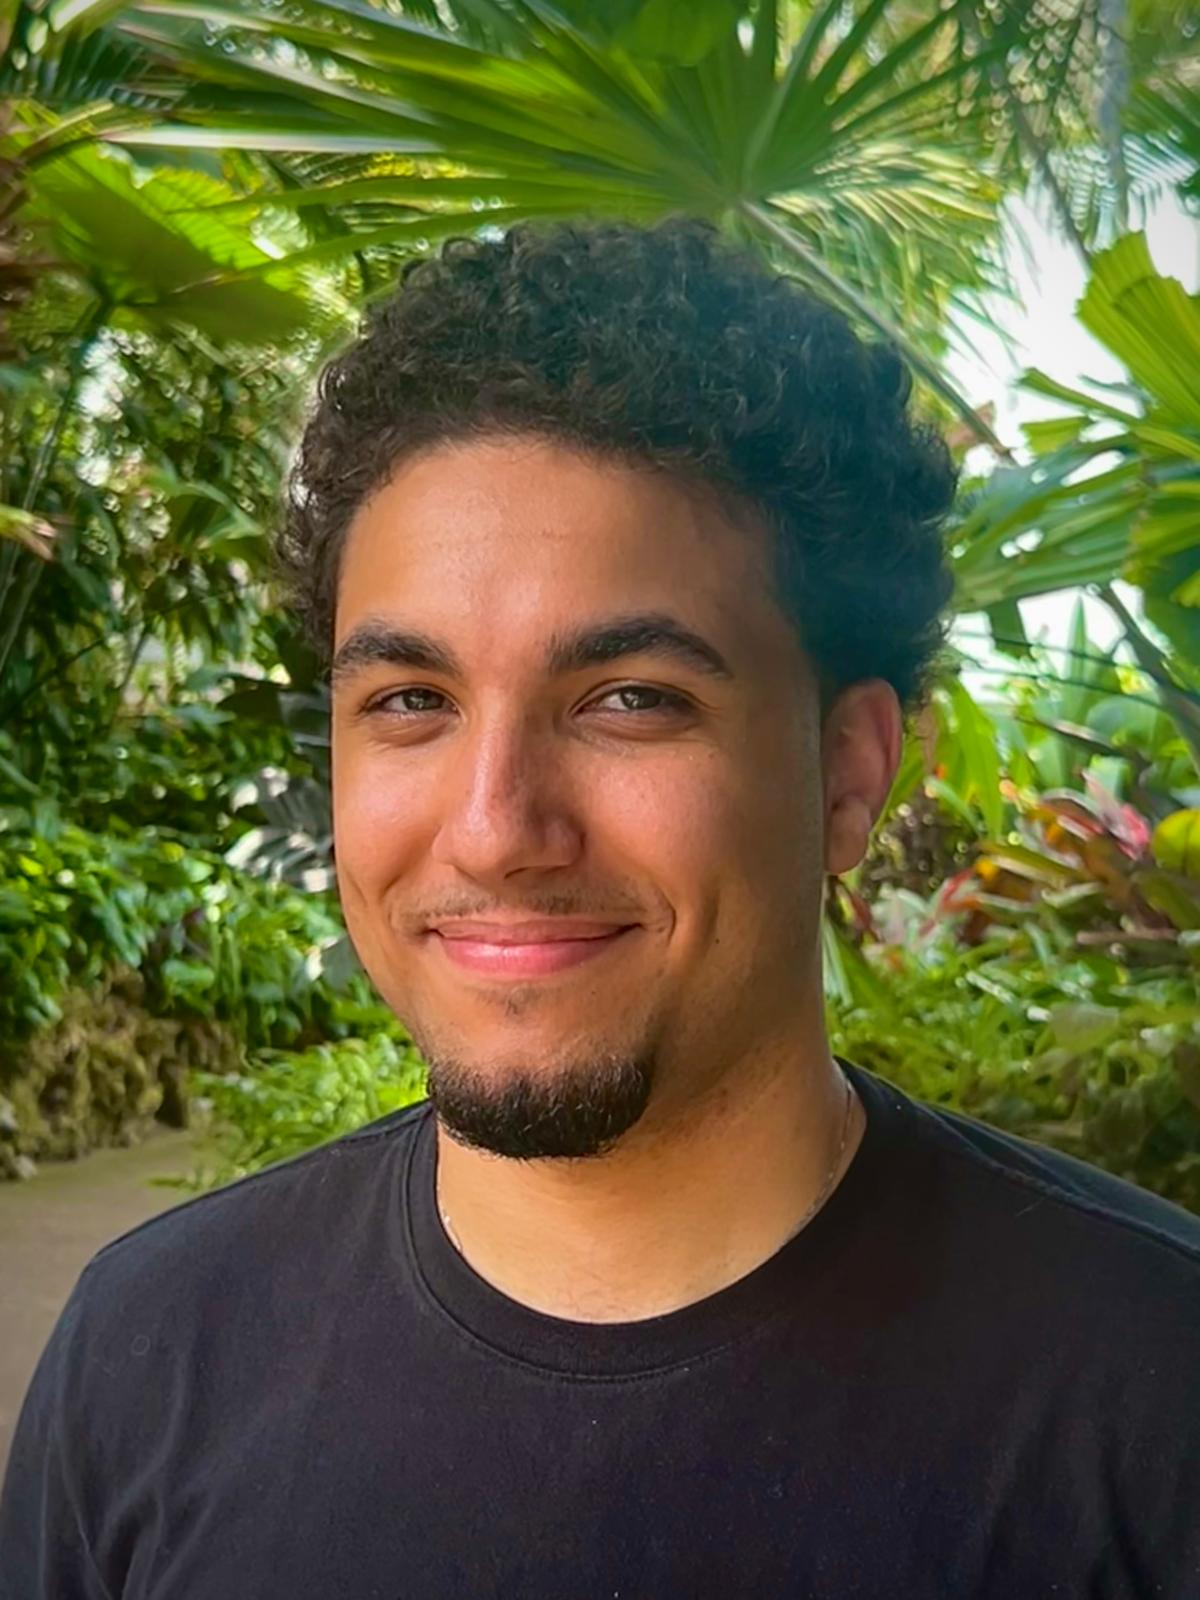
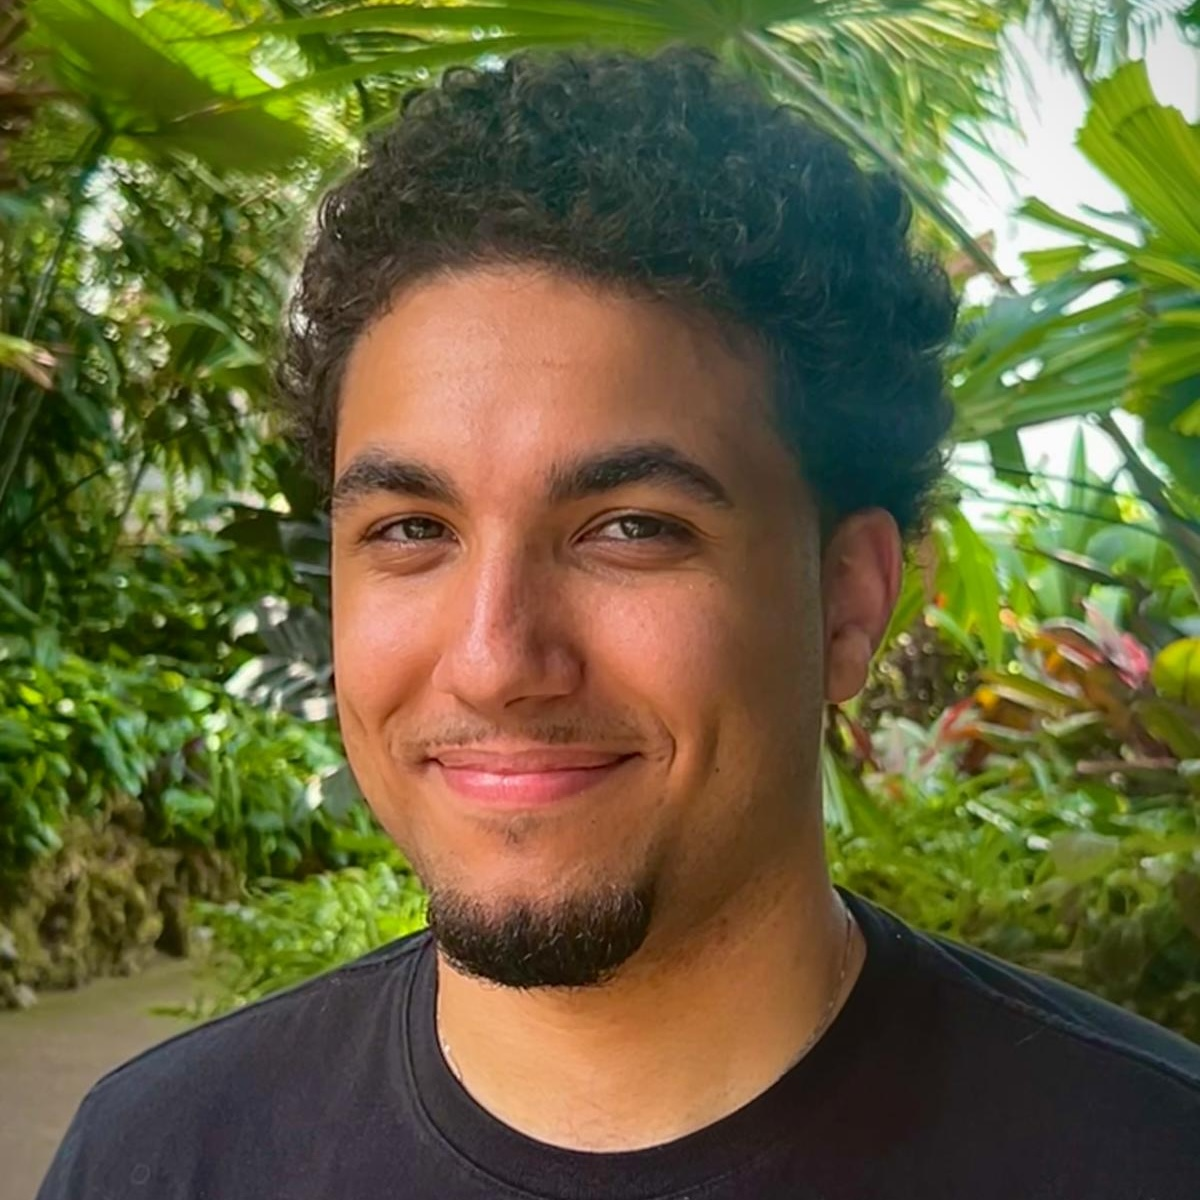
correct format in photos

diff --git a/member/nathaniel.html b/member/nathaniel.html
@@ -25,7 +25,7 @@
 						<div class="row">
 							<div class="col-4 col-12-medium">
 								<div class="team-card">
-									<div class="team-img-wrapper"></div>
+									<div class="team-img-wrapper">
 										<img class="team-img" src="../images/member/headshot_NathanielFlores.jpeg">
 									</div>
 									<div class="team-card-content">
@@ -39,7 +39,7 @@
 									</div>
 								</div>
 							</div>
-							<div class="col-8 col-12-medium"></div>
+							<div class="col-8 col-12-medium">
 								<p>Nathaniel Flores is a third-year undergraduate at Williams College and an intern with the University at Buffalo Hazard Center's REU Program.</p>
 								<div class="row">
 									<div class="col-6 col-12-medium">

diff --git a/member/mika.html b/member/mika.html
@@ -36,7 +36,7 @@
 									</div>
 								</div>
 							</div>
-							<div class="col-8 col-12-medium"></div>
+							<div class="col-8 col-12-medium">
 								<p>Ms Mika is appointed as the lab security lead at <a href="../index.html">a.c.t. hydro lab</a> by Dr Cheng due to obvious Nepotism. However, Ms Mika does have extensive experience in security as she has provided her services in Seattle WA, Boulder CO, and now Western New York regions. In addition, she is also willing to take treats as compensation. </p>
 								<div class="row">
 									<div class="col-6 col-12-medium">

diff --git a/people.html b/people.html
@@ -42,7 +42,7 @@
 								<div class="responsive-cell-block wk-desk-3 wk-mobile-12 wk-tab-4 wk-ipadp-4 team-card-container">
 									<div class="team-card" onclick="location.href='member/douglas.html';">
 										<div class="team-img-wrapper">
-											<img class="team-img" src="images/member/people_in_place.png">
+											<img class="team-img" src="images/member/headshot_DouglasBellFreitag.jpg">
 										</div>
 										<div class="team-card-content">
 											<h4 class="text-blk name">

diff --git a/member/cheng_yifan.html b/member/cheng_yifan.html
@@ -21,7 +21,7 @@
 				<div class="inner">
 
 					<!-- Header -->
-					<header id="header"></header>
+					<header id="header">
 						<a href="../index.html" class="logo"><img src="../images/lab-ub-logo.long.png" alt="" /></a>
 					</header>
 					<section>
